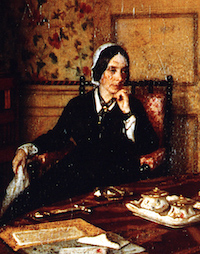
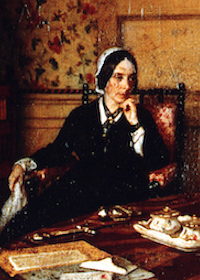
change photo order

diff --git a/clo-angular/src/app/rubenstein/rubenstein.component.html b/clo-angular/src/app/rubenstein/rubenstein.component.html
@@ -922,10 +922,10 @@
           </div>
           </div>
 
-          <div class="row image-row mt-3 mb-3 ml-3">
-            <img class="col-md-4" src="../../assets/rubenstein-page/carlyle.jpg">
-            <img class="col-md-4" src="../../assets/rubenstein-page/nero.jpg">
-            <img class="col-md-4" src="../../assets/rubenstein-page/JWC.jpg">
+          <div class="row image-row mt-3 mb-3 ml-3 pt-3 pb-3">
+            <img class="pic col-md-4" src="../../assets/rubenstein-page/carlyle.jpg">
+            <img class="pic col-md-4" src="../../assets/rubenstein-page/JWC.jpg">
+            <img class="pic col-md-4" src="../../assets/rubenstein-page/nero.jpg">
           </div>
 
           <p>These three details from Robert Scott Tait’s painting A Chelsea Interior (1857).

diff --git a/clo-angular/src/app/rubenstein/rubenstein.component.css b/clo-angular/src/app/rubenstein/rubenstein.component.css
@@ -19,6 +19,10 @@
   border: 2px solid black;
 }
 
+.pic {
+  max-height: 200;
+}
+
 .about-text {
   width: 75%;
 }
